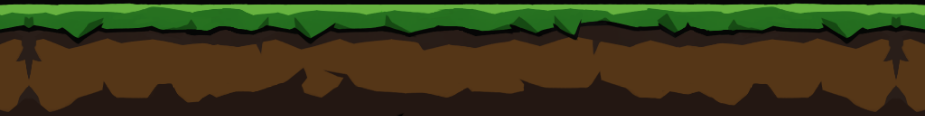
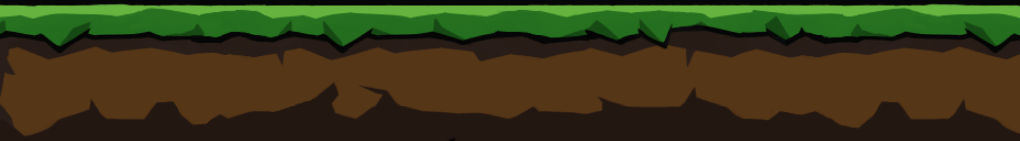
No commit for a long time

diff --git a/src/scenes/GameScene.js b/src/scenes/GameScene.js
@@ -3,12 +3,16 @@ class GameScene extends Phaser.Scene{
     constructor(){
         var ground;
         var player;
+        var enemy;
         var cursors;
         var map;
         var backgroundLayer;
         var groundLayer;
         var keySpace;
         var scene;
+        var enemyExit;
+        var enemyCollider;
+        var playerDied;
 
         super({
             key:'GameScene'
@@ -16,16 +20,20 @@ class GameScene extends Phaser.Scene{
     }
 
     preload(){
-        this.load.image('scene','assets/backgrounds/scene.png');
-        this.load.image('ground','assets/backgrounds/map1.png');
-        this.load.spritesheet('player','assets/player/player.png',{frameWidth:96,frameHeight:80});
-        this.load.spritesheet('attack','assets/player/attack.png',{frameWidth:96,frameHeight:71});
+        this.load.image('scene','./assets/backgrounds/bgScene.png');
+        this.load.image('ground','./assets/backgrounds/ground.png');
+        this.load.spritesheet('player','./assets/player/player.png',{frameWidth:96,frameHeight:80});
+        this.load.spritesheet('enemy','./assets/player/enemySheet.png',{frameWidth:96,frameHeight:80});
+        this.load.spritesheet('playerDies','./assets/player/playerDie.png',{frameWidth:96,frameHeight:75});
+
+        this.enemyExit = false;
     }
 
     create(){
         //Setup the background
-        this.scene = this.add.tileSprite(0,170,window.innerWidth,window.innerHeight - 100,"scene").setOrigin(0).setScrollFactor(0);
-
+        this.scene = this.add.tileSprite(0,0,window.innerWidth,window.innerHeight - 190,"scene").setOrigin(0).setScrollFactor(1).setScale(1.55);
+        
+        
         //Setup the platform
         this.ground = this.add.tileSprite(0,window.innerHeight - 100,window.innerWidth,100,"ground").setOrigin(0).setScrollFactor(0);
         this.physics.add.existing(this.ground,true);
@@ -35,6 +43,12 @@ class GameScene extends Phaser.Scene{
         this.player.setCollideWorldBounds(true);
         this.physics.add.existing(this.player,false);
 
+        //Setup the Enemy
+        this.enemy = this.physics.add.sprite(window.innerWidth - 100, window.innerHeight - 190,'enemy');
+        this.enemy.setCollideWorldBounds(true);
+        this.physics.add.existing(this.enemy,false);
+        this.enemy.flipX = true;
+
         //Setup the Camera
         this.cameras.main.startFollow(this.player);
         this.cameras.main.setBounds(0,0,Number.MAX_SAFE_INTEGER,window.innerHeight - 100);
@@ -42,7 +56,8 @@ class GameScene extends Phaser.Scene{
         // this.keySpace = this.input.keyboard.addKey(Phaser.Input.Keyboard.KeyCodes.SPACE);
 
         this.physics.add.collider(this.player,this.ground);
-
+        this.physics.add.collider(this.enemy,this.ground);
+        
 
         //Animation to run to the right. Do not add left run animation, this is not the intent of the game
         this.anims.create({
@@ -53,20 +68,43 @@ class GameScene extends Phaser.Scene{
         });
 
         this.anims.create({
-            key:'attack',
-            frames:this.anims.generateFrameNumbers('attack',{start:0,end:6}),
-            frameRate:8,
+            key:'enemyRun',
+            frames:this.anims.generateFrameNumbers('enemy',{start:1,end:9}),
+            frameRate:20,
             repeat: -1
         });
 
-        this.cursors = this.input.keyboard.createCursorKeys();
+        this.anims.create({
+            key:'playerDies',
+            frames:this.anims.generateFrameNumbers('playerDies',{start:0,end:7}),
+            frameRate:20,
+            repeat:-1
+        });
 
-                
+        this.enemyCollider = this.physics.add.collider(this.player,this.enemy,function(_player,_enemy){
+            this.playerDied = true;
+            // _player.anims.play("playerDies");
+            // this.physics.world.removeCollider(this.enemyCollider);
+
+        },null,this);
+
+        this.cursors = this.input.keyboard.createCursorKeys();
     }
     
     update(){
         const touchingDown = this.player.body.touching.down;
-       
+        
+        if(this.enemyExit == false){
+            if(this.enemy.body.position.x <= 10){
+                this.enemy.disableBody(true,true);
+                this.enemy.destroy();
+                this.enemyExit = true;
+            }else{
+                this.enemy.setVelocityX(-188);
+                this.enemy.anims.play("enemyRun",true);
+                this.enemyExit = false;
+            }
+        }
         //Here is the animation that I wanted for the horizontal movement
         /*
             the way I look at the movement is the character is moving and the
@@ -77,9 +115,9 @@ class GameScene extends Phaser.Scene{
         */
         if(this.cursors.right.isDown){
             this.player.setVelocityX(6);
+            this.player.anims.play("run",true);
             this.scene.tilePositionX += 2;
             this.ground.tilePositionX += 6;
-            this.player.anims.play("run",true);
         }else if(touchingDown){
             this.player.setVelocityX(0);
             this.player.anims.stop();
@@ -89,24 +127,22 @@ class GameScene extends Phaser.Scene{
             
         }
 
+
         //Here is the jump animation
         //Still the mechanics are not very clean that i'm happy about.
         if(this.cursors.up.isDown && touchingDown){
             this.player.body.velocity.y += -250;
+            this.scene.tilePositionX += 2;
             this.ground.tilePositionX += 6;
             this.player.anims.play("run",true);
         }
 
-        //Add spacebar here to handle the attach animation.
-        // if(this.keySpace.isDown){
-        //     this.player.anims.play("attack",true);
-        // }else if(touchingDown){
-        //     this.player.setVelocityX(0);
-        //     this.player.anims.stop();
-        //     if(this.player.anims.currentAnim != null){
-        //         this.player.anims.setCurrentFrame(this.player.anims.currentAnim.frames[0]);
-        //     }
-        // }
+        if(this.playerDied){
+            // this.physics.world.removeCollider(this.enemyCollider);
+            this.enemyCollider.active = false;
+            this.player.anims.play("playerDies");
+            this.scene.restart();
+        }
     }
 }
 

diff --git a/src/game.js b/src/game.js
@@ -11,7 +11,7 @@ const config = {
 		default:'arcade',
 		arcade:{
 			debug:false,
-			gravity:{y:300}
+			gravity:{y:500}
 		}
 	},
 	dom:{
